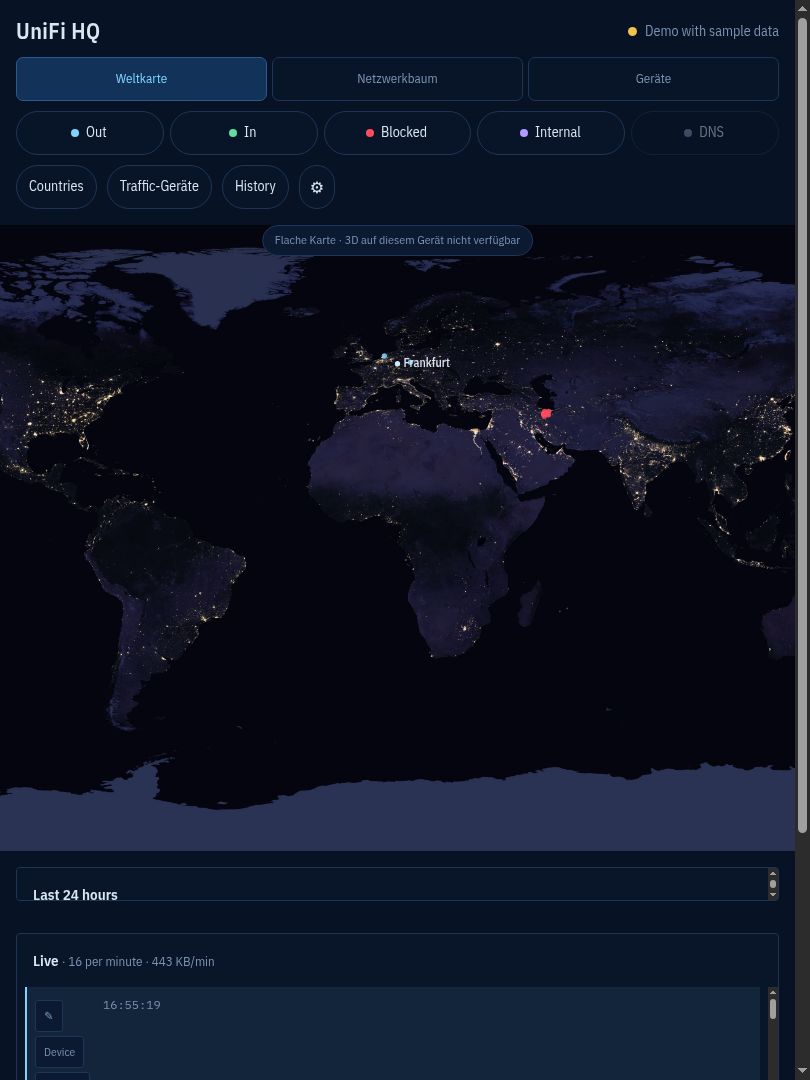
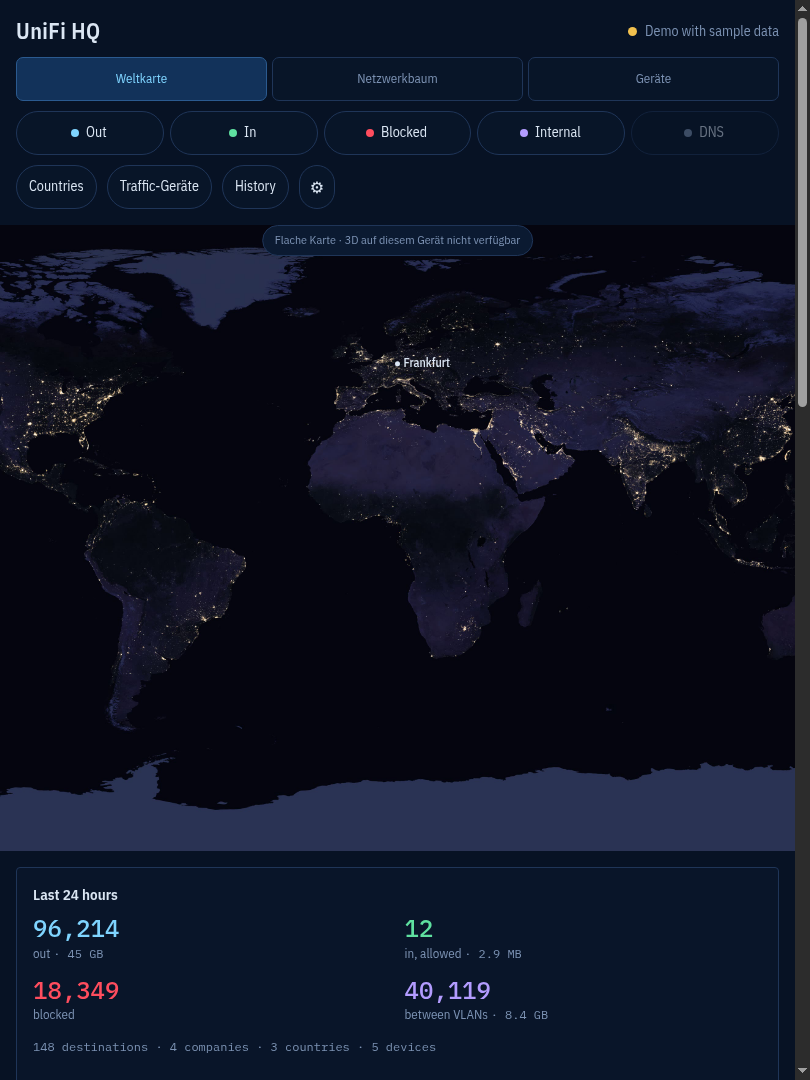
Keep tablet traffic panels readable and preserve ticker layout

diff --git a/web/hq-shell.css b/web/hq-shell.css
@@ -6,4 +6,8 @@ header{flex-wrap:wrap;gap:9px 12px;background:linear-gradient(var(--ink) 75%,tra
 @media(max-width:1200px) and (min-width:901px){header h1 small{display:none}header .status{font-size:12px}header .filters{order:4;margin-left:0}header .clock{order:5}#left,#right{top:135px}#left{width:250px}#right{width:285px}.hq-live-nav{margin-right:auto}footer{left:290px;right:325px;font-size:10px}}
 @media(max-width:900px){header{position:relative;display:flex;background:var(--ink);gap:10px;padding:16px}header h1{font-size:22px}header h1 small{display:none}.hq-live-nav{order:2;width:100%}.hq-live-nav a{flex:1;justify-content:center}.status{margin-left:auto}.filters{order:3;width:100%;margin-left:0}.filters .chip{min-height:44px;flex:1;justify-content:center}.clock{display:none}header>.tool{order:4;min-height:44px}#left,#right{top:auto}#globe{height:56vh;min-height:430px}.panel{margin:16px}#left{display:grid;grid-template-columns:1fr 1fr;column-gap:24px}#left>h2,#left>.totals,#left>.uniq{grid-column:1/-1}#left section{margin-top:12px}#right{height:52vh;min-height:380px}.settings{position:absolute;top:100%;z-index:10;max-height:65vh}.drawer-head .tool,.drawer-head select,.drawer-head input,.modal-actions button{min-height:44px}.drawer-head{gap:10px}.drawer-head input[type=search]{flex:1;min-width:160px}#searchForm{flex-wrap:wrap}#searchForm input{min-width:200px}footer{margin:18px 0}.drawer-box{max-width:100%}}
 @media(max-width:550px){#left{display:block}.hq-live-nav a{font-size:12px;padding:8px}.filters{gap:4px}.filters .chip{font-size:12px;padding:5px 6px}.settings{left:10px;right:10px}.drawer-head .tool{padding:8px 10px}}
-@media(max-width:900px){body{display:flex;flex-direction:column;min-height:100%}header{order:-1;position:sticky;top:0}#globe,#flat{flex-shrink:0}}
+@media(max-width:900px){body{display:flex;flex-direction:column;height:auto;min-height:100dvh}header{order:-1;position:sticky;top:0}#globe,#flat,#left,#right{flex-shrink:0}}
+#ticker .acts{grid-column:1/-1;grid-row:2}
+#ticker time{grid-column:1;grid-row:1}
+#ticker li>div:not(.acts){grid-column:2;grid-row:1;min-width:0}
+@media(pointer:coarse){header .chip,header .tool,#ticker .acts button,.pen{min-height:44px;min-width:44px}}
